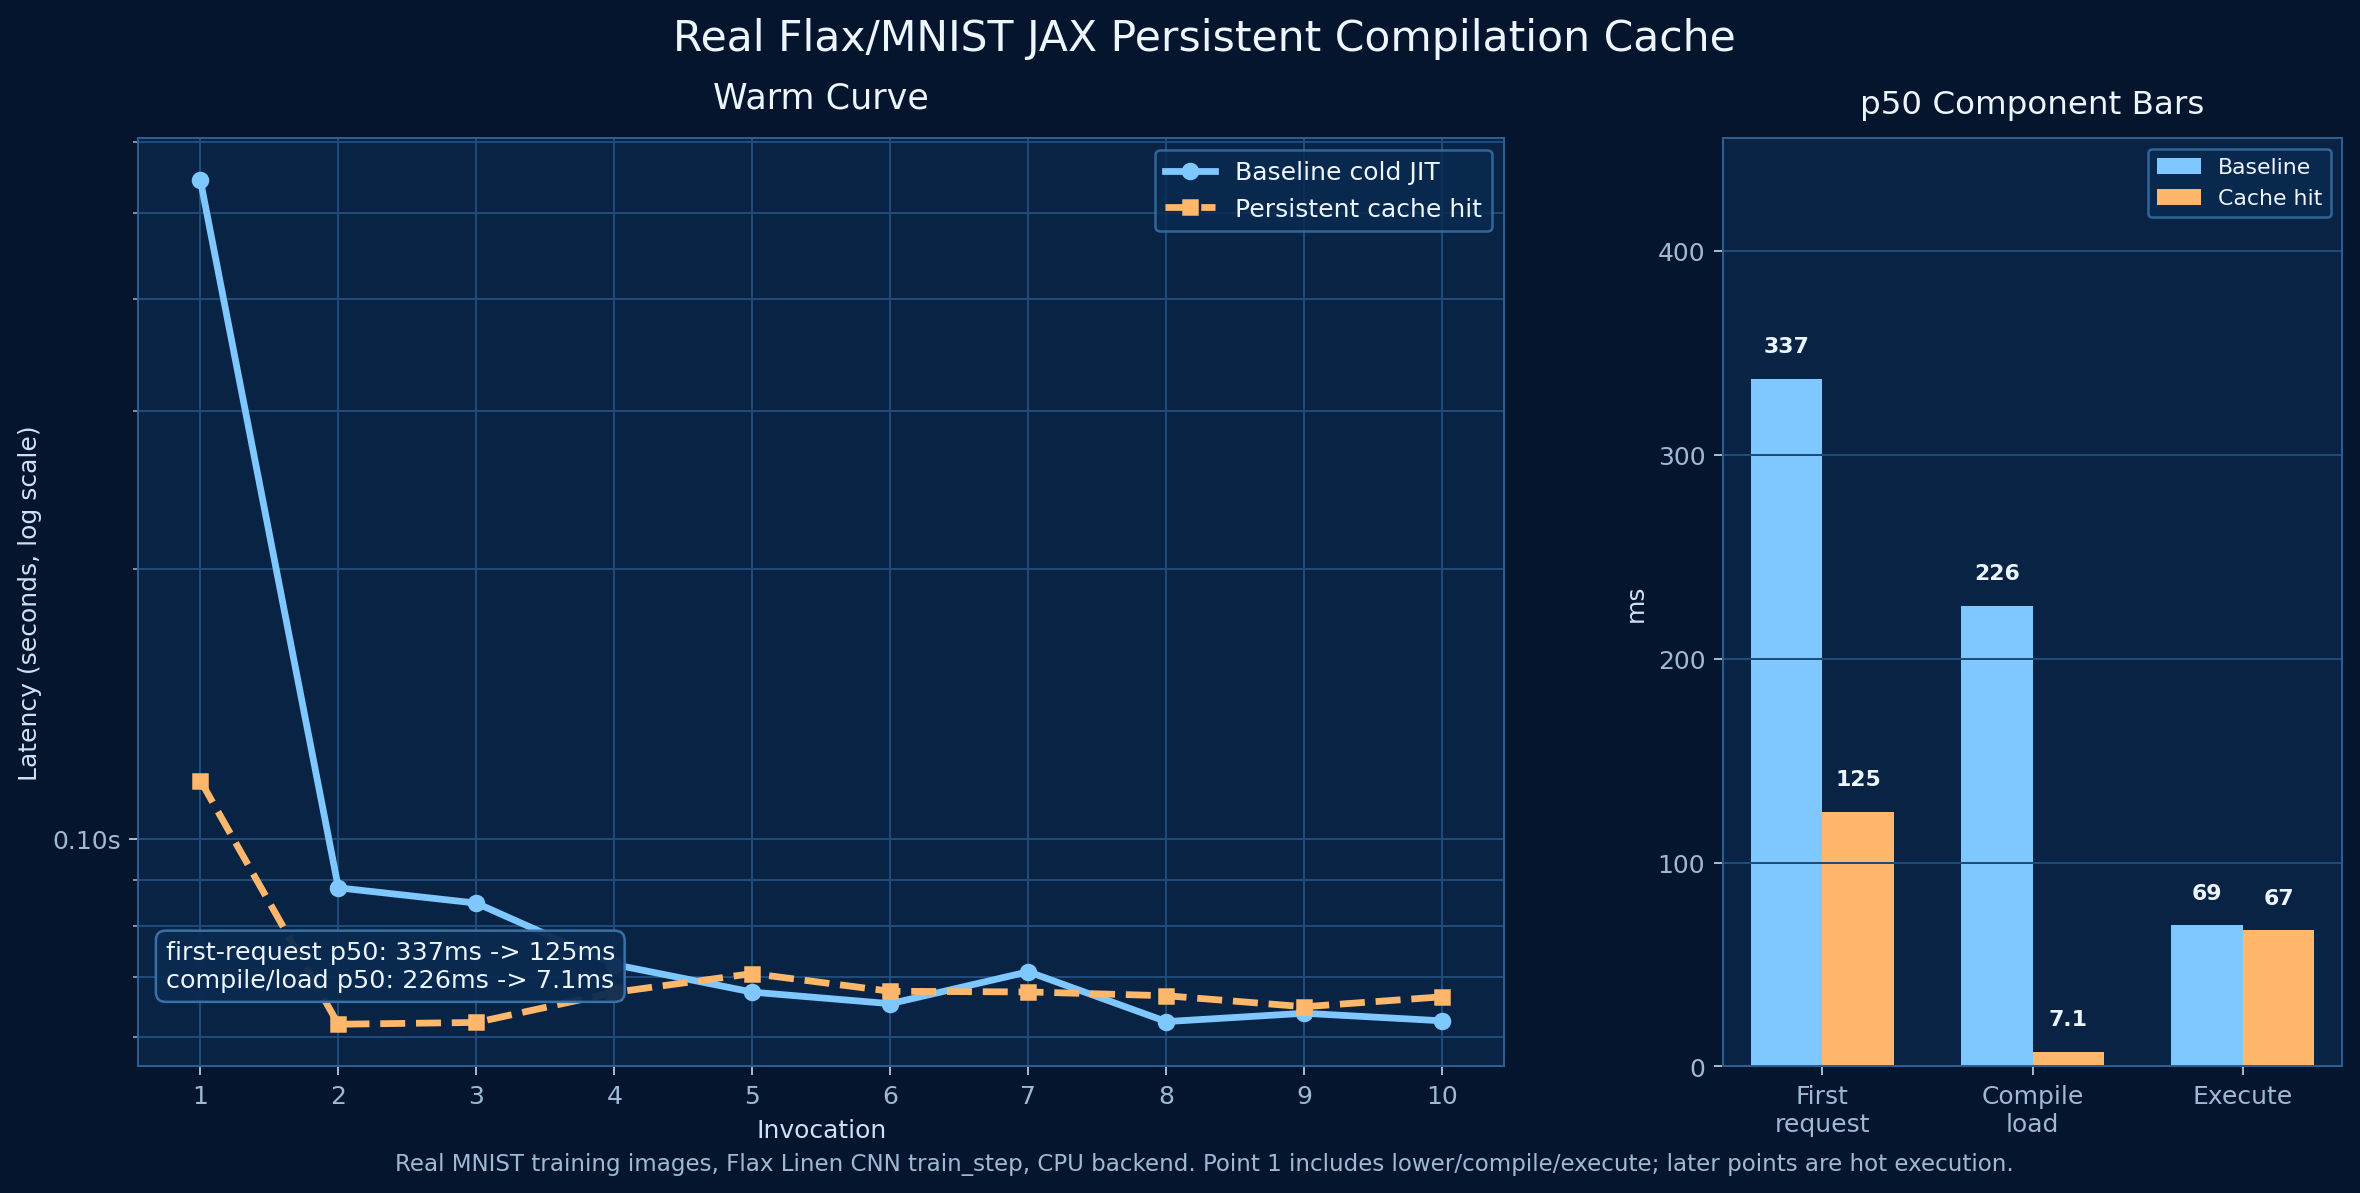
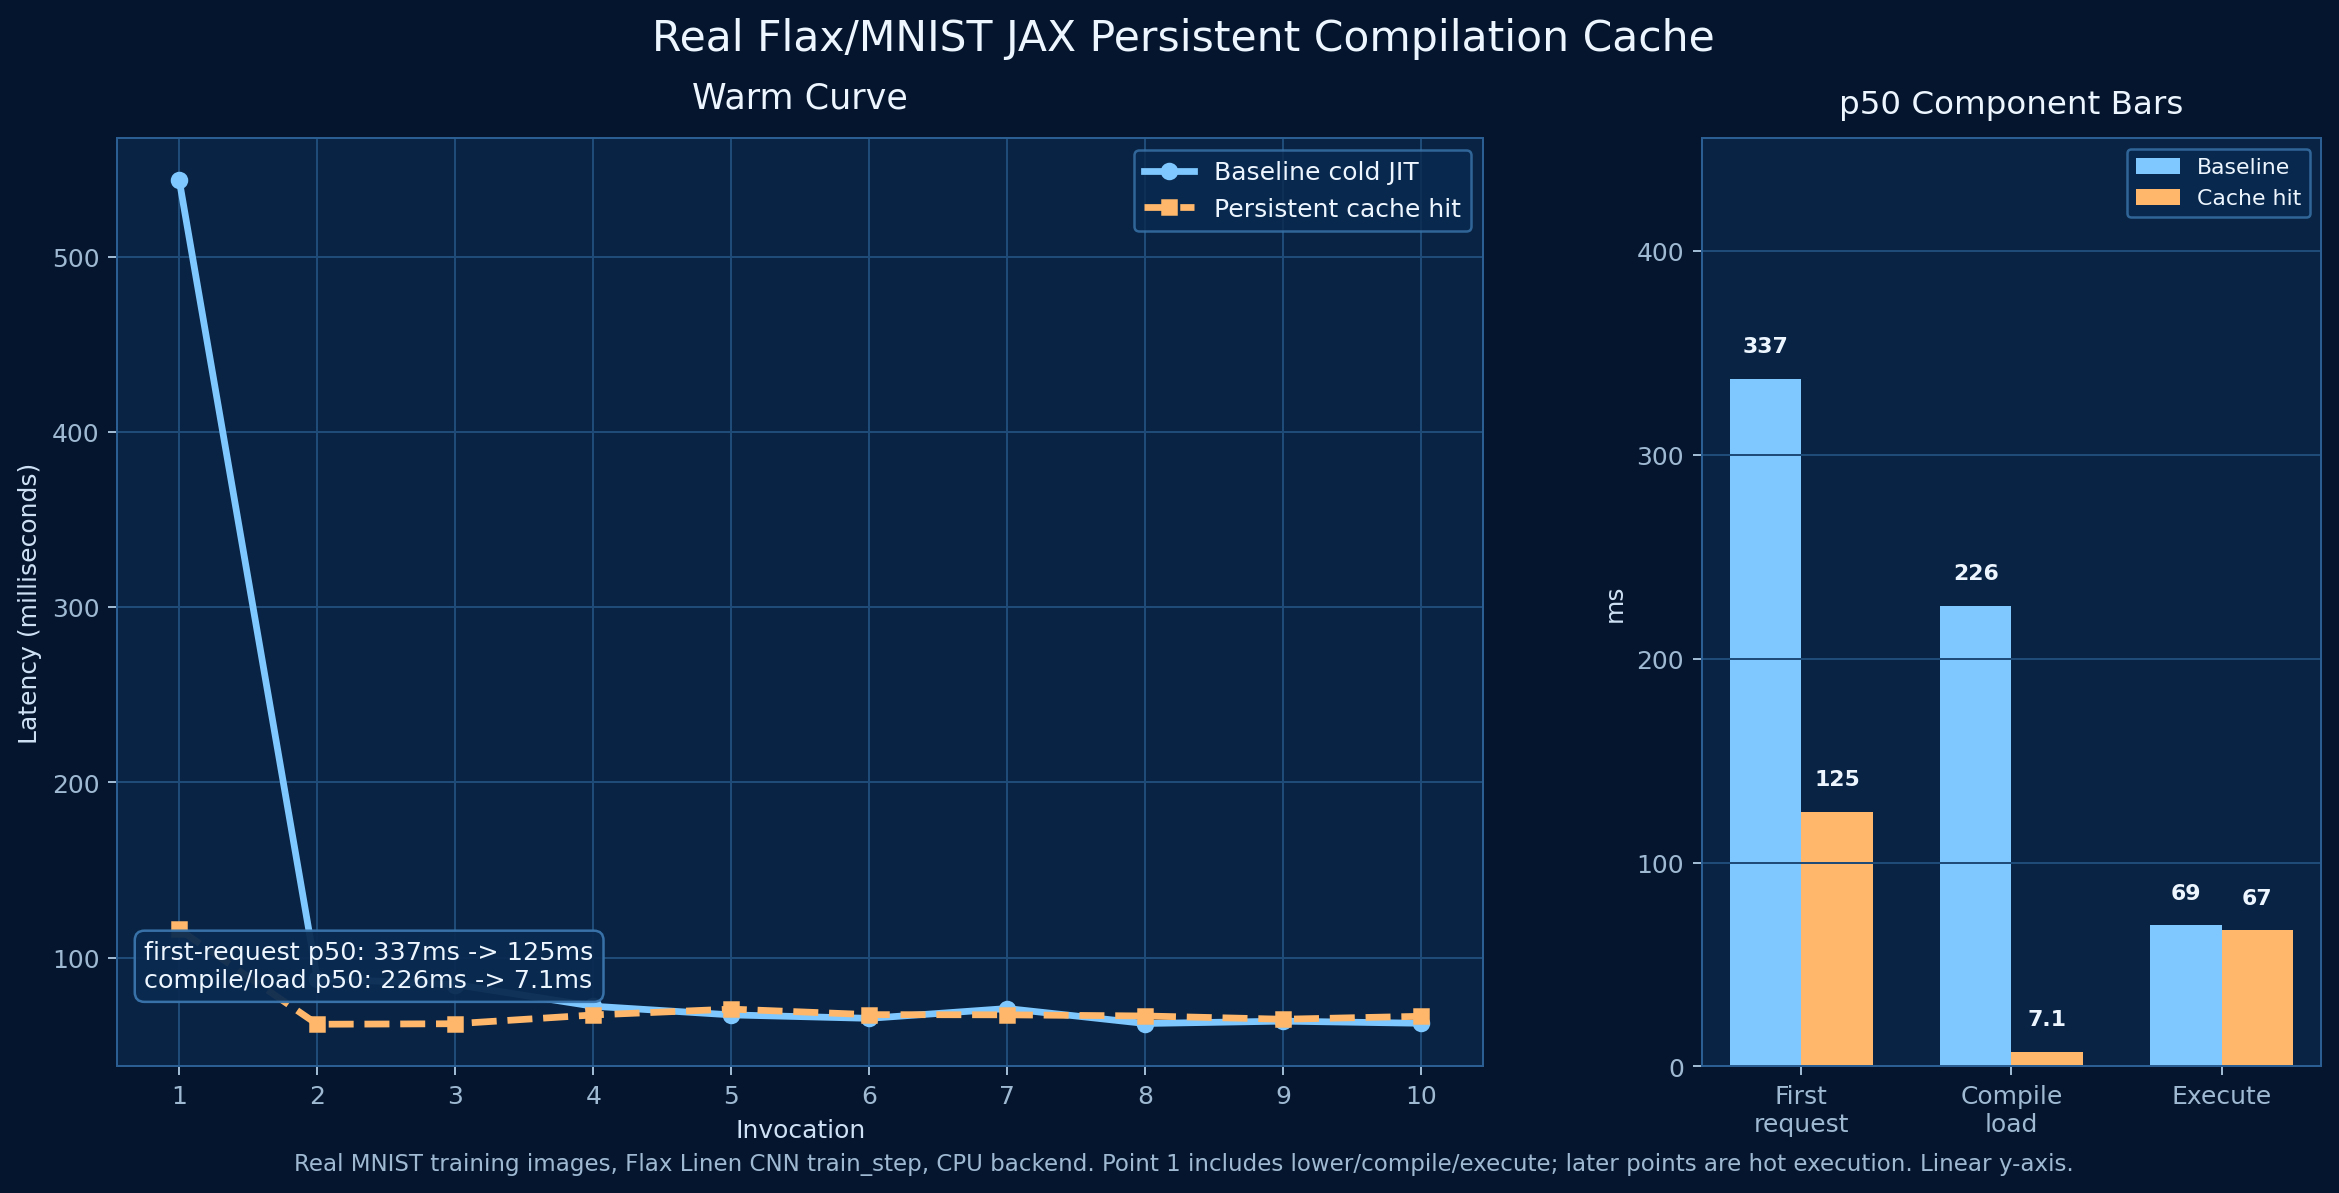
figures: use linear flax mnist latency axis

diff --git a/scripts/plot_jax_flax_real_clean.py b/scripts/plot_jax_flax_real_clean.py
@@ -13,7 +13,6 @@ import matplotlib
 
 matplotlib.use("Agg")
 import matplotlib.pyplot as plt
-import matplotlib.ticker as mticker
 
 
 def read_rows(path: Path, scenario: str) -> list[dict[str, Any]]:
@@ -33,8 +32,8 @@ def read_rows(path: Path, scenario: str) -> list[dict[str, Any]]:
 
 
 def warm_curve(rows: list[dict[str, Any]]) -> list[float]:
-    values = [rows[0]["startup_plus_first_request_ms"] / 1000.0]
-    values.extend(row["first_execute_ms"] / 1000.0 for row in rows[1:10])
+    values = [rows[0]["startup_plus_first_request_ms"]]
+    values.extend(row["first_execute_ms"] for row in rows[1:10])
     return values
 
 
@@ -92,16 +91,12 @@ def render(results_dir: Path, scenario: str, out: Path) -> None:
         linestyle="--",
         label="Persistent cache hit",
     )
-    ax.set_yscale("log")
     ax.set_xticks(x)
     ax.set_xlabel("Invocation")
-    ax.set_ylabel("Latency (seconds, log scale)")
+    ax.set_ylabel("Latency (milliseconds)")
     ax.set_title("Real Flax/MNIST Cold Start with JAX Persistent Cache", fontsize=15, pad=14)
-    ax.grid(True, which="both", linewidth=0.8)
+    ax.grid(True, linewidth=0.8)
     ax.legend(loc="upper right", frameon=True, facecolor="#0a2a50", edgecolor="#3b76ad", labelcolor="#edf6ff")
-    ax.yaxis.set_major_formatter(
-        mticker.FuncFormatter(lambda value, _pos: f"{value:.2f}s" if value >= 0.1 else f"{value * 1000:.0f}ms")
-    )
 
     ax.text(
         0.015,
@@ -150,7 +145,7 @@ def render(results_dir: Path, scenario: str, out: Path) -> None:
         0.5,
         0.02,
         "Real MNIST training images, Flax Linen CNN train_step, CPU backend. "
-        "Point 1 includes lower/compile/execute; later points are hot execution.",
+        "Point 1 includes lower/compile/execute; later points are hot execution. Linear y-axis.",
         ha="center",
         va="bottom",
         fontsize=9.3,

diff --git a/scripts/plot_jax_flax_real_combined.py b/scripts/plot_jax_flax_real_combined.py
@@ -13,7 +13,6 @@ import matplotlib
 
 matplotlib.use("Agg")
 import matplotlib.pyplot as plt
-import matplotlib.ticker as mticker
 
 
 def read_rows(path: Path, scenario: str) -> list[dict[str, Any]]:
@@ -32,8 +31,8 @@ def read_rows(path: Path, scenario: str) -> list[dict[str, Any]]:
 
 
 def warm_curve(rows: list[dict[str, Any]]) -> list[float]:
-    values = [rows[0]["startup_plus_first_request_ms"] / 1000.0]
-    values.extend(row["first_execute_ms"] / 1000.0 for row in rows[1:10])
+    values = [rows[0]["startup_plus_first_request_ms"]]
+    values.extend(row["first_execute_ms"] for row in rows[1:10])
     return values
 
 
@@ -87,16 +86,12 @@ def render(results_dir: Path, scenario: str, out: Path) -> None:
         markersize=5.8,
         label="Persistent cache hit",
     )
-    line_ax.set_yscale("log")
     line_ax.set_xticks(x)
     line_ax.set_xlabel("Invocation")
-    line_ax.set_ylabel("Latency (seconds, log scale)")
+    line_ax.set_ylabel("Latency (milliseconds)")
     line_ax.set_title("Warm Curve", fontsize=14, pad=12)
-    line_ax.grid(True, which="both", linewidth=0.8)
+    line_ax.grid(True, linewidth=0.8)
     line_ax.legend(loc="upper right", frameon=True, facecolor="#0a2a50", edgecolor="#3b76ad", labelcolor="#edf6ff")
-    line_ax.yaxis.set_major_formatter(
-        mticker.FuncFormatter(lambda value, _pos: f"{value:.2f}s" if value >= 0.1 else f"{value * 1000:.0f}ms")
-    )
     line_ax.text(
         0.02,
         0.08,
@@ -138,7 +133,7 @@ def render(results_dir: Path, scenario: str, out: Path) -> None:
     fig.text(
         0.5,
         0.02,
-        "Real MNIST training images, Flax Linen CNN train_step, CPU backend. Point 1 includes lower/compile/execute; later points are hot execution.",
+        "Real MNIST training images, Flax Linen CNN train_step, CPU backend. Point 1 includes lower/compile/execute; later points are hot execution. Linear y-axis.",
         ha="center",
         va="bottom",
         fontsize=9.2,